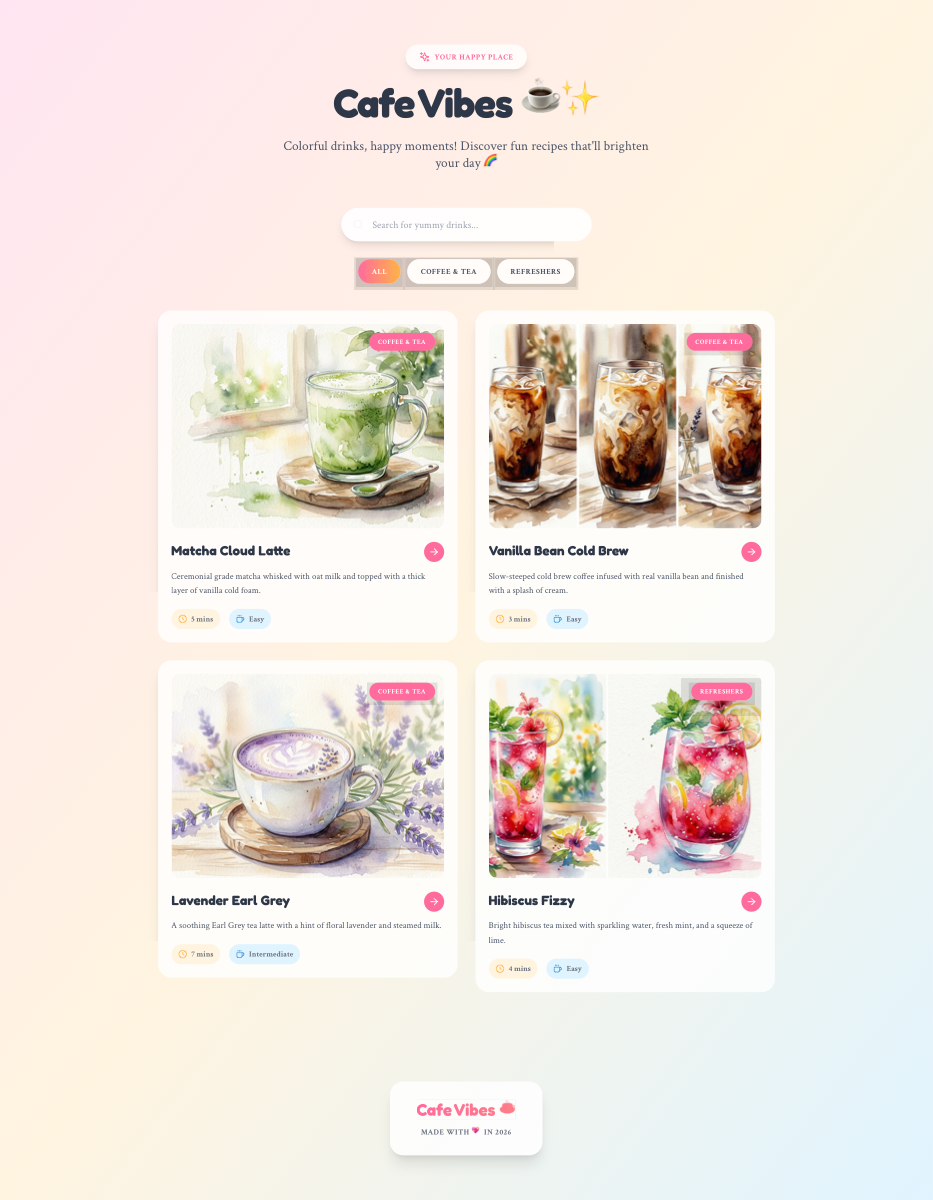
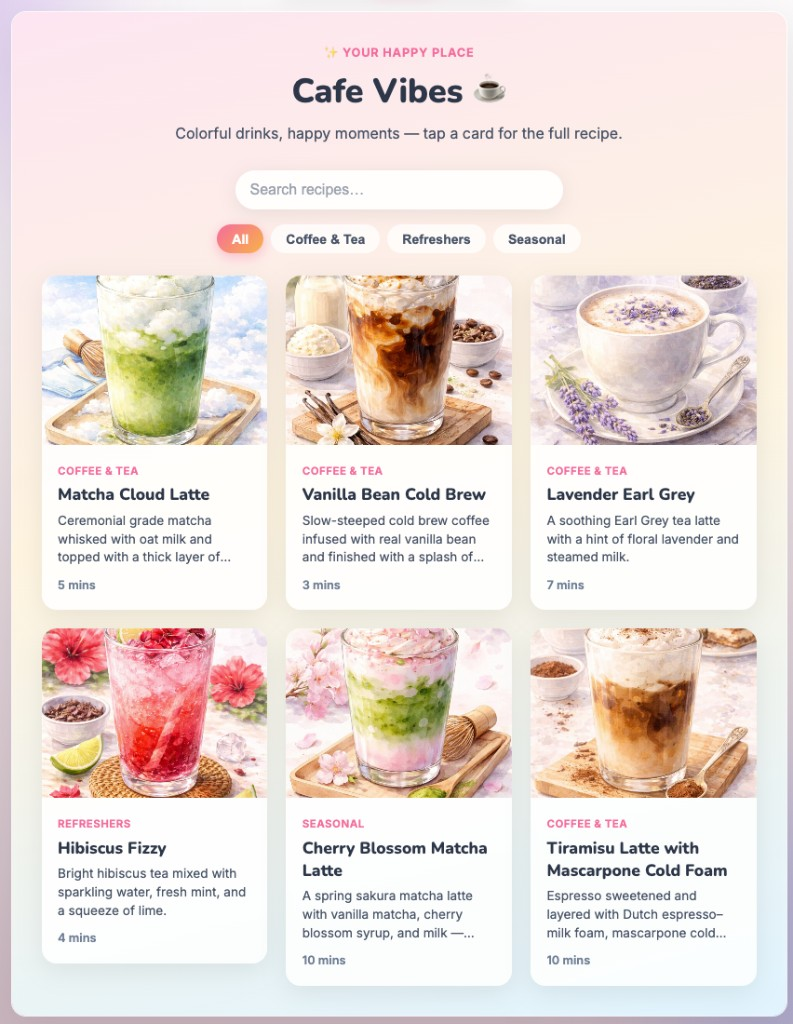
Portfolio Cloud Cup thumbnail and copy; add Tiramisu Latte drink and assets

diff --git a/src/pages/cafe-drink-app/apps/mobile/src/data/drinks.js b/src/pages/cafe-drink-app/apps/mobile/src/data/drinks.js
@@ -134,4 +134,32 @@ export const drinks = [
     time: "10 mins",
     difficulty: "Easy",
   },
+  {
+    id: "tiramisu-latte-mascarpone-foam",
+    name: "Tiramisu Latte with Mascarpone Cold Foam",
+    category: "Coffee & Tea",
+    description:
+      "Espresso sweetened and layered with Dutch espresso–milk foam, mascarpone cold foam, and a cocoa dusting — dessert in a cup.",
+    ingredients: [
+      "½ tbsp Dutch espresso powder",
+      "Cocoa powder for dusting",
+      "1 tbsp sugar",
+      "2 shots espresso",
+      "1 cup whole milk",
+      "Mascarpone cold foam (for topping — optional but recommended)",
+    ],
+    steps: [
+      "Brew 2 shots of espresso and pour them into your glass or cup.",
+      "Add 1 tbsp sugar to the espresso and stir until fully dissolved.",
+      "In a separate container, combine ½ tbsp Dutch espresso powder with a small splash of milk and mix until smooth.",
+      "Pour in 1 cup whole milk and froth or shake until light and slightly airy.",
+      "Gently layer or pour the milk mixture over the espresso.",
+      "(Optional but recommended) Add a thick layer of mascarpone cold foam on top.",
+      "Finish by lightly dusting cocoa powder over the foam.",
+    ],
+    image:
+      "https://raw.githubusercontent.com/SonniiTea/Portfolio/master/public/images/tiramisu-latte-thumb.png",
+    time: "10 mins",
+    difficulty: "Easy",
+  },
 ];

diff --git a/src/pages/cafe-drink-app/cafe-drink/data/drinks.js b/src/pages/cafe-drink-app/cafe-drink/data/drinks.js
@@ -130,4 +130,31 @@ export const drinks = [
     time: "10 mins",
     difficulty: "Easy",
   },
+  {
+    id: "tiramisu-latte-mascarpone-foam",
+    name: "Tiramisu Latte with Mascarpone Cold Foam",
+    category: "Coffee & Tea",
+    description:
+      "Espresso sweetened and layered with Dutch espresso–milk foam, mascarpone cold foam, and a cocoa dusting — dessert in a cup.",
+    ingredients: [
+      "½ tbsp Dutch espresso powder",
+      "Cocoa powder for dusting",
+      "1 tbsp sugar",
+      "2 shots espresso",
+      "1 cup whole milk",
+      "Mascarpone cold foam (for topping — optional but recommended)",
+    ],
+    steps: [
+      "Brew 2 shots of espresso and pour them into your glass or cup.",
+      "Add 1 tbsp sugar to the espresso and stir until fully dissolved.",
+      "In a separate container, combine ½ tbsp Dutch espresso powder with a small splash of milk and mix until smooth.",
+      "Pour in 1 cup whole milk and froth or shake until light and slightly airy.",
+      "Gently layer or pour the milk mixture over the espresso.",
+      "(Optional but recommended) Add a thick layer of mascarpone cold foam on top.",
+      "Finish by lightly dusting cocoa powder over the foam.",
+    ],
+    image: `${process.env.PUBLIC_URL || ""}/images/tiramisu-latte-thumb.png`,
+    time: "10 mins",
+    difficulty: "Easy",
+  },
 ];

diff --git a/src/pages/cafe-drink-app/apps/web/src/data/drinks.js b/src/pages/cafe-drink-app/apps/web/src/data/drinks.js
@@ -129,4 +129,31 @@ export const drinks = [
     time: "10 mins",
     difficulty: "Easy",
   },
+  {
+    id: "tiramisu-latte-mascarpone-foam",
+    name: "Tiramisu Latte with Mascarpone Cold Foam",
+    category: "Coffee & Tea",
+    description:
+      "Espresso sweetened and layered with Dutch espresso–milk foam, mascarpone cold foam, and a cocoa dusting — dessert in a cup.",
+    ingredients: [
+      "½ tbsp Dutch espresso powder",
+      "Cocoa powder for dusting",
+      "1 tbsp sugar",
+      "2 shots espresso",
+      "1 cup whole milk",
+      "Mascarpone cold foam (for topping — optional but recommended)",
+    ],
+    steps: [
+      "Brew 2 shots of espresso and pour them into your glass or cup.",
+      "Add 1 tbsp sugar to the espresso and stir until fully dissolved.",
+      "In a separate container, combine ½ tbsp Dutch espresso powder with a small splash of milk and mix until smooth.",
+      "Pour in 1 cup whole milk and froth or shake until light and slightly airy.",
+      "Gently layer or pour the milk mixture over the espresso.",
+      "(Optional but recommended) Add a thick layer of mascarpone cold foam on top.",
+      "Finish by lightly dusting cocoa powder over the foam.",
+    ],
+    image: "/images/tiramisu-latte-thumb.png",
+    time: "10 mins",
+    difficulty: "Easy",
+  },
 ];

diff --git a/src/portfolio/style.css b/src/portfolio/style.css
@@ -1447,6 +1447,8 @@ a.project-card--link:focus-visible {
 
 /* ─── Cafe Drink App (integrated UI, src/cafe-drink/) ─── */
 .cafe-drink-app {
+  /* Recipe detail grid uses @container; width follows this panel (e.g. mobile preview frame) */
+  container-type: inline-size;
   border-radius: 16px;
   padding: clamp(1.25rem, 3vw, 2rem);
   background: linear-gradient(
@@ -1718,12 +1720,23 @@ a.project-card--link:focus-visible {
 .cafe-drink-app__detail-grid {
   display: grid;
   gap: 1.5rem;
+  grid-template-columns: minmax(0, 1fr);
+  width: 100%;
+  min-width: 0;
 }
 
-@media (min-width: 768px) {
+/* Two columns only when the recipe panel is ≥768px (container), not the browser window */
+@container (min-width: 768px) {
   .cafe-drink-app__detail-grid {
-    grid-template-columns: 1fr 1fr;
+    grid-template-columns: minmax(0, 1fr) minmax(0, 1fr);
     align-items: start;
+  }
+}
+
+/* Real phones: always stack even if a browser quirk mis-evaluates containers */
+@media screen and (max-width: 767px) {
+  .cafe-drink-app__detail-grid {
+    grid-template-columns: minmax(0, 1fr);
   }
 }
 

diff --git a/src/portfolio/portfolio.jsx b/src/portfolio/portfolio.jsx
@@ -4,9 +4,9 @@ import ThemeToggle from "../components/ThemeToggle";
 const PROJECTS = [
   {
     id: "example",
-    title: "Cafe-Style Drink Recipe App",
+    title: "Cloud Cup",
     description:
-      "Browse cafe-style drink recipes — full case study with link to the live app.",
+      "A café-style drink recipe app that blends front-end development techniques with a cozy, illustration-driven user experience.",
     to: "/cafe-drink",
     thumb: `${process.env.PUBLIC_URL || ""}/images/cafe-vibes-thumb.png`,
   },
